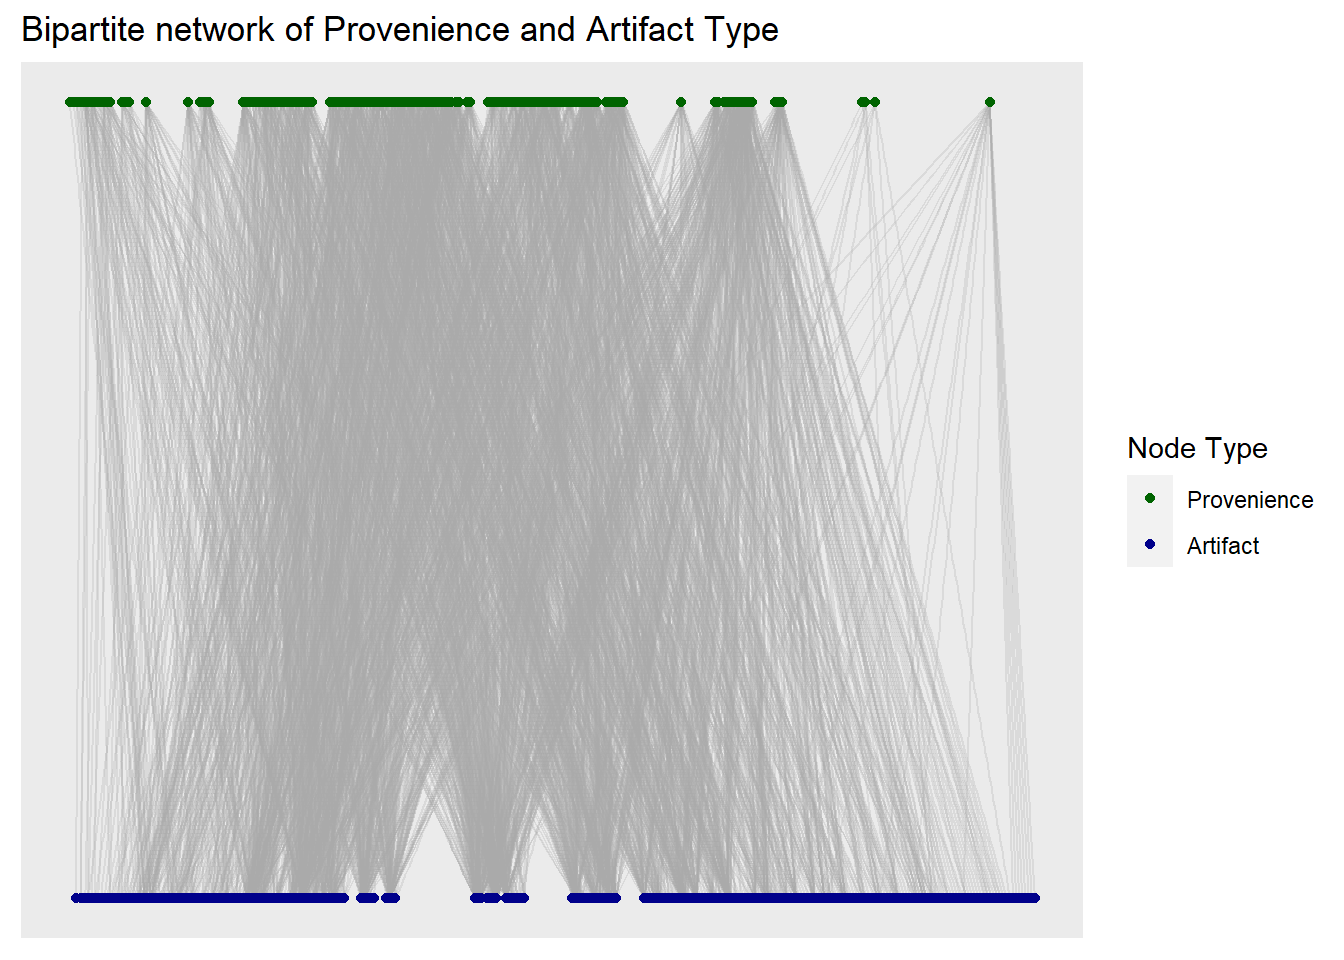
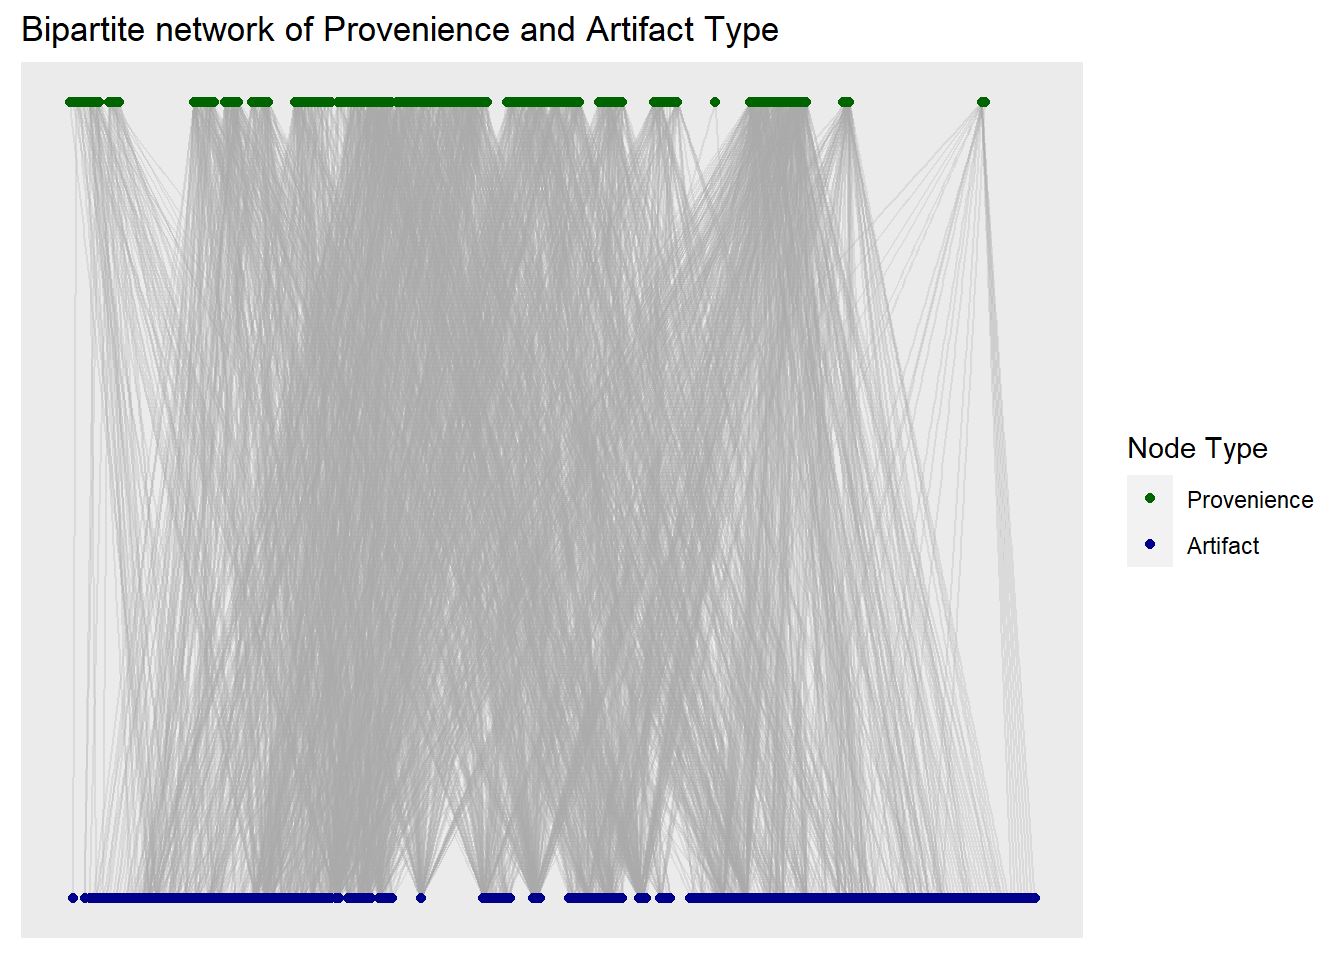
experimenting with thresholds

diff --git a/assemblage_network_doc_3_building.html b/assemblage_network_doc_3_building.html
@@ -7,7 +7,7 @@
 <meta name="viewport" content="width=device-width, initial-scale=1.0, user-scalable=yes">
 
 <meta name="author" content="James Scott Cardinal">
-<meta name="dcterms.date" content="2023-02-09">
+<meta name="dcterms.date" content="2023-04-14">
 
 <title>From similarity to network: Building graphs for community detection</title>
 <style>
@@ -177,7 +177,7 @@ div.csl-indent {
     <div>
     <div class="quarto-title-meta-heading">Published</div>
     <div class="quarto-title-meta-contents">
-      <p class="date">February 9, 2023</p>
+      <p class="date">April 14, 2023</p>
     </div>
   </div>
   
@@ -243,7 +243,7 @@ div.csl-indent {
 </div>
 </div>
 </div>
-<p>For proveniences, it looks like there are quite a lot that have <em>some</em> similarities in their artifact content.</p>
+<p>For proveniences, it looks like there are quite a lot that have at least <em>some</em> similarities in their artifact content. Looking at the density of scores for each methods, it appears that the majority of proveniences have non-zero similarity scores even though there are discernible “peaks” at zero.</p>
 <div class="cell">
 <div class="cell-output-display">
 <div id="fig-sim-artifact" class="quarto-figure quarto-figure-center anchored">
@@ -254,8 +254,20 @@ div.csl-indent {
 </div>
 </div>
 </div>
-<p>In contrast to proveniences, the artifact types show far <em>less</em> similarity in where they co-occur.</p>
-<p>Now what we want to do is look at how to go about selecting our similarity metric, how to find the appropriate thresholds of similarity, and what effects these have on the resulting graph projections. The goal is to find the right metric and threshold that will allow us to detect the underlying structure of the relationships within and between proveniences and artifact types.</p>
+<p>Unlike the proveniences, the co-location of artifacts is obviously much more sparse and the density plot is dominated by the left-hand spike of zero similarities. Looking closely, though, we can notice some apparent “bumps” along the right tails (most obvious for the overlap coefficient) where we seem to have a fair number of higher similarity artifacts. In other words, some artifact types occur together quite often.</p>
+<div class="cell">
+<div class="cell-output-display">
+<div id="fig-sim-artifact-nonzero" class="quarto-figure quarto-figure-center anchored">
+<figure class="figure">
+<p><img src="assemblage_network_doc_3_building_files/figure-html/fig-sim-artifact-nonzero-1.png" class="img-fluid figure-img" alt="Non-zero similarity measures for artifact types." width="672"></p>
+<p></p><figcaption class="figure-caption">Figure&nbsp;4: Non-zero similarity measures for artifact types.</figcaption><p></p>
+</figure>
+</div>
+</div>
+</div>
+<p>Filtering the artifact similarities to only display non-zero values, we an see the distribution of similarities a little better within that right tail. Sørensen–Dice and Jaccard scores still concentrate on the lower end of the scale, while it’s apparent that the overlap coefficient is rating the similarities considerably higher.</p>
+<p>If you remember from the last installment, the overlap coefficient captures subsets and has a more “permissive” approach to scoring similarities. Sørensen–Dice and Jaccard, however, penalize differences in their scoring, which lead to lower overall similarity scores</p>
+<p>Now what we want to do is look at how to go about selecting our similarity metric, how to find appropriate thresholds of similarity, and what effects these have on the resulting graph projections. The goal is to find the right metric and threshold that will allow us to detect the underlying structure of the relationships within and between proveniences and artifact types.</p>
 </section>
 </section>
 <section id="sec-graph-structure-and-scale-free-networks" class="level2">
@@ -266,24 +278,24 @@ div.csl-indent {
 <p>The presence of a scale-free network suggests that there is some latent <em>non</em>-random process at play that is driving differential attachments between those nodes. It may be that there is a different process of growth in the network, which archaeologically would be some different spatial or temporal process of artifact deposition. Alternatively, there may be a clustering process or preferential attachment by which certain nodes are more closely associated than others as in the case of hub nodes. A certain suite of artifacts that are all related to the same activities (i.e., an <em>assemblage</em>) would cluster together, for example.</p>
 <section id="sec-detecting-scale-free-networks" class="level3">
 <h3 class="anchored" data-anchor-id="sec-detecting-scale-free-networks">Detecting scale-free networks</h3>
-<p>If a network is scale-free, then the distribution of node degree will approximate a power-law distribution of the form <span class="math inline">\(P_{\text{deg}}(k) \propto k^{-\gamma}\)</span> where <span class="math inline">\(k\)</span> is node degree and <span class="math inline">\(\gamma\)</span> is some exponent. We will know <span class="math inline">\(k\)</span>, but we would obviously need to find the appropriate value for <span class="math inline">\(\gamma\)</span> from our empirical distribution. To illustrate, lets look at the probability density function for various values of <span class="math inline">\(\gamma\)</span> (<a href="#fig-power-law">Figure&nbsp;4</a>). We have 251 artifact types in our archaeological sample data, so lets look at the ideal power-law distributions if each node could have a maximum of 251 degrees.</p>
+<p>If a network is scale-free, then the distribution of node degree will approximate a power-law distribution of the form <span class="math inline">\(P_{\text{deg}}(k) \propto k^{-\gamma}\)</span> where <span class="math inline">\(k\)</span> is node degree and <span class="math inline">\(\gamma\)</span> is some exponent. We will know <span class="math inline">\(k\)</span>, but we would obviously need to find the appropriate value for <span class="math inline">\(\gamma\)</span> from our empirical distribution. To illustrate, lets look at the probability density function for various values of <span class="math inline">\(\gamma\)</span> (<a href="#fig-power-law">Figure&nbsp;5</a>). We have 251 artifact types in our archaeological sample data, so lets look at the ideal power-law distributions if each node could have a maximum of 251 degrees.</p>
 <div class="cell">
 <div class="cell-output-display">
 <div id="fig-power-law" class="quarto-figure quarto-figure-center anchored">
 <figure class="figure">
 <p><img src="assemblage_network_doc_3_building_files/figure-html/fig-power-law-1.png" class="img-fluid figure-img" alt="Power-law distribution for different values of gamma." width="672"></p>
-<p></p><figcaption class="figure-caption">Figure&nbsp;4: Power-law distribution for different values of gamma.</figcaption><p></p>
+<p></p><figcaption class="figure-caption">Figure&nbsp;5: Power-law distribution for different values of gamma.</figcaption><p></p>
 </figure>
 </div>
 </div>
 </div>
-<p>Pretty easy to see that if our artifact type graph were scale free, the vast majority of the nodes would have a <em>very</em> small degree. Not so easy to see how much that probability is affected by <span class="math inline">\(\gamma\)</span>, though. It’s a lot easier to see the effect of <span class="math inline">\(\gamma\)</span> if we take the <span class="math inline">\(\log\)</span> of <span class="math inline">\(P_{\text{deg}}(k)\)</span> (<a href="#fig-power-law-log">Figure&nbsp;5</a>).</p>
+<p>Pretty easy to see that if our artifact type graph were scale free, the vast majority of the nodes would have a <em>very</em> small degree. Not so easy to see how much that probability is affected by <span class="math inline">\(\gamma\)</span>, though. It’s a lot easier to see the effect of <span class="math inline">\(\gamma\)</span> if we take the <span class="math inline">\(\log\)</span> of <span class="math inline">\(P_{\text{deg}}(k)\)</span> (<a href="#fig-power-law-log">Figure&nbsp;6</a>).</p>
 <div class="cell">
 <div class="cell-output-display">
 <div id="fig-power-law-log" class="quarto-figure quarto-figure-center anchored">
 <figure class="figure">
 <p><img src="assemblage_network_doc_3_building_files/figure-html/fig-power-law-log-1.png" class="img-fluid figure-img" alt="Log-scale power-law distribution for different values of gamma." width="672"></p>
-<p></p><figcaption class="figure-caption">Figure&nbsp;5: Log-scale power-law distribution for different values of gamma.</figcaption><p></p>
+<p></p><figcaption class="figure-caption">Figure&nbsp;6: Log-scale power-law distribution for different values of gamma.</figcaption><p></p>
 </figure>
 </div>
 </div>
@@ -301,7 +313,7 @@ div.csl-indent {
 <section id="sec-from-similarity-to-adjacency" class="level2">
 <h2 class="anchored" data-anchor-id="sec-from-similarity-to-adjacency">From similarity to adjacency</h2>
 <p>We could simply use our raw similarity scores to build our networks, but we would still have very dense and noisy graphs. Instead, we want to find a method that boosts the <em>signal</em> of our graph structure, while suppressing the <em>noise</em> from spurious associations. To do that, we need to filter our similarity scores to form a graph adjacency matrix containing (as much as possible) only the most significant associations between entities. There are essentially two ways we can go about this.</p>
-<p>The simplest is to just set a hard cutoff threshold – e.g., a specific value or quantile – and build an un-weighted or binary adjacency matrix. If we select the right threshold, this can be very effective and results in a more sparse graph. The downside is that it risks discarding legitimate connections along with the noise, and tends to leave isolated nodes (i.e., nodes that aren’t connected to any others).</p>
+<p>The simplest is to just set a hard cutoff threshold – e.g., a specific value or quantile – and build an un-weighted or binary adjacency matrix. If we select the right threshold, this can be very effective and results in a more sparse graph. The downside is that it risks discarding legitimate (albeit lower strength) connections along with the noise, and tends to leave isolated nodes (i.e., nodes that aren’t connected to any others).</p>
 <p>Another approach is to use a function to calculate a <em>soft</em> threshold value, along the lines of an activation function. This results in a weighted graph in which smaller similarity values are pushed closer towards zero, while very high similarity values would stay closer to one. The advantage is that there is less risk of suppressing significant connections. The downside is that the noise is still in there, albeit substantially dampened, and doesn’t decrease the graph’s overall density. Weighted graphs are also just a bit more complicated to parse for community detection. Some methods consider edge weight as strength of connection, while others require the edge weights to be a measure of distance between nodes.</p>
 <p>Thankfully, the two are not mutually exclusive! A hybrid approach would be to boost the similarity signal by employing a soft threshold function, and <em>then</em> finding an appropriate hard threshold. This is, in effect, what ultimately happens when you apply a clustering algorithm to a distance matrix. Whether it’s selecting the number of clusters or setting a cutoff distance to a dendrogram, you’re essentially deciding membership by picking a hard threshold to the measure being evaluated.</p>
 <p>Graph community detection is quite closely related to non-graph clustering, particularly hierarchical clustering. Setting a threshold for building the adjacency matrix determines the resulting structure of the graph.</p>
@@ -327,9 +339,9 @@ A_{i,j} = f(S_{i,j}, \tau) \equiv
 <h3 class="anchored" data-anchor-id="sec-soft-thresholds">Soft thresholds</h3>
 <p>Soft thresholds consist of a transformation of the raw similarity score by passing it through a function that boosts stronger similarities and suppresses weaker ones. Those familiar with activation functions in deep learning will already be accustomed to the variety of approaches available – e.g., sigmoid function, tangent hyperbolic or “tanh” function, etc. Soft thresholds work the same way, transforming the input values into a monotonically increasing output value.</p>
 <p>Soft thresholds result in weighted graphs, therefore they do not reduce the graph’s density or alter the degree distribution, unless a subsequent (hard) threshold is applied as well. In a weighted network, though, the density is less of an issue, since all metrics become proportional to the associated edge weights. It does, however, become rather more computationally intensive. The advantage of that trade-off is that more of the information about the relationships is retained in the graph’s structure.</p>
-<p>Since our similarity scores are already in the range <span class="math inline">\([0,1]\)</span>, we don’t really need quite the same sort transformation as we would if we needed to take any real number as an input. We just need to “bend” our linear input range to suppress some range of the smaller values. Luckily, there is a very simple way to do that by using an exponential function. We’ll define a power adjacency<a href="#fn4" class="footnote-ref" id="fnref4" role="doc-noteref"><sup>4</sup></a> function:</p>
+<p>Since our similarity scores are already in the range <span class="math inline">\([0,1]\)</span>, we don’t really need quite the same sort transformation as we would if we needed to take any real number as an input. We just need to “bend” our linear input range to minimize some portion of the smaller values. Luckily, there is a very simple way to do that by using an exponential function. We’ll define a power adjacency<a href="#fn4" class="footnote-ref" id="fnref4" role="doc-noteref"><sup>4</sup></a> function:</p>
 <p><span id="eq-power-adj"><span class="math display">\[
-Power(s_{i,j}) = |s_{i,j}|^{\beta}
+Power(S_{i,j}) = |S_{i,j}|^{\beta}
 \tag{2}\]</span></span></p>
 <p>This is simply raising the absolute value of our raw input value to some power <span class="math inline">\(\beta\)</span>. Our similarity scores are all <span class="math inline">\([0,1]\)</span> so the absolute value is irrelevant in this case. For other use cases, it would be necessary.<a href="#fn5" class="footnote-ref" id="fnref5" role="doc-noteref"><sup>5</sup></a></p>
 <div class="cell">
@@ -337,13 +349,13 @@ Power(s_{i,j}) = |s_{i,j}|^{\beta}
 <span id="cb2-2"><a href="#cb2-2" aria-hidden="true" tabindex="-1"></a>  <span class="fu">abs</span>(x) <span class="sc">^</span> beta</span>
 <span id="cb2-3"><a href="#cb2-3" aria-hidden="true" tabindex="-1"></a>}</span></code><button title="Copy to Clipboard" class="code-copy-button"><i class="bi"></i></button></pre></div>
 </div>
-<p>Increasing <span class="math inline">\(\beta\)</span> can be seen to push the smaller values towards zero, which increases the minimum value at which the adjacency score exceeds <span class="math inline">\(0.5\)</span> (thus, it’s a <em>soft</em> threshold). At <span class="math inline">\(\beta=2\)</span>, only similarity values of <span class="math inline">\(s_{i,j} \geq 0.71\)</span> would break the <span class="math inline">\(0.5\)</span> adjacency threshold and the weights of all lower values penalized. At <span class="math inline">\(\beta=3\)</span> it would take <span class="math inline">\(s_{i,j} \geq 0.79\)</span> and so on.</p>
+<p>Increasing <span class="math inline">\(\beta\)</span> can be seen to push the smaller values towards zero, which increases the minimum value at which the adjacency score exceeds <span class="math inline">\(0.5\)</span> (thus, it’s a <em>soft</em> threshold). For example, at <span class="math inline">\(\beta=2\)</span> only similarity values of <span class="math inline">\(S_{i,j} \geq 0.71\)</span> would break the <span class="math inline">\(0.5\)</span> adjacency threshold and the weights of all lower values penalized. At <span class="math inline">\(\beta=3\)</span> it would take <span class="math inline">\(S_{i,j} \geq 0.79\)</span> and so on.</p>
 <div class="cell">
 <div class="cell-output-display">
 <div id="fig-power-adjacency" class="quarto-figure quarto-figure-center anchored">
 <figure class="figure">
 <p><img src="assemblage_network_doc_3_building_files/figure-html/fig-power-adjacency-1.png" class="img-fluid figure-img" alt="Power adjacency distribution for different values of beta." width="672"></p>
-<p></p><figcaption class="figure-caption">Figure&nbsp;6: Power adjacency distribution for different values of beta.</figcaption><p></p>
+<p></p><figcaption class="figure-caption">Figure&nbsp;7: Power adjacency distribution for different values of beta.</figcaption><p></p>
 </figure>
 </div>
 </div>
@@ -352,7 +364,11 @@ Power(s_{i,j}) = |s_{i,j}|^{\beta}
 </section>
 <section id="sec-choosing-threshold-type-and-parameters" class="level2">
 <h2 class="anchored" data-anchor-id="sec-choosing-threshold-type-and-parameters">Choosing threshold type and parameters</h2>
-<p>…</p>
+<p>So, now that we’ve explored some similarity and adjacency methods, the question remains – how do we choose between them? We’re looking for non-random structure within our sample data, and we know that the non-random distribution of connections in our network <em>should</em> approximate a scale-free network. Therefore, we want to pick the similarity measure and adjacency threshold that result in a graph that best approximates such a network.</p>
+<p>How do we do that?</p>
+<p>Well, one proven method<a href="#fn6" class="footnote-ref" id="fnref6" role="doc-noteref"><sup>6</sup></a> is that we can test the fit of a linear regression between the the observed distribution of network connectivity and an ideal power law probability distribution. The higher the <span class="math inline">\(R^2\)</span> of the model fit, the closer the observed data is to a scale-free topology.</p>
+<p>It’s important to note that the meaning of “connectivity” is different for weighted (soft) and un-weighted (hard) adjacency. For un-weighted graphs, connectivity is simply the degree of each node. If the edges are weighted, though, connectivity is the sum of edge weights (or “strength”) connected to each node.</p>
+<p>Our next step, then, is to evaluate each of our similarity matrices to see which one most closely fits to a scale-free network. Before we do that, though, let’s take a look at what the connectivity look like when just using the similarity scores as the network adjacency.</p>
 
 
 
@@ -377,6 +393,7 @@ Zhang, Bin, and Steve Horvath. 2005. <span>“A General Framework for Weighted G
 <li id="fn3"><p>Adapted from <span class="citation" data-cites="Zhang2005">Zhang and Horvath (<a href="#ref-Zhang2005" role="doc-biblioref">2005</a>)</span><a href="#fnref3" class="footnote-back" role="doc-backlink">↩</a></p></li>
 <li id="fn4"><p>Again, we’re following after <span class="citation" data-cites="Zhang2005">Zhang and Horvath (<a href="#ref-Zhang2005" role="doc-biblioref">2005</a>)</span>.<a href="#fnref4" class="footnote-back" role="doc-backlink">↩</a></p></li>
 <li id="fn5"><p>For example, if we were including multiplicities of events (i.e., how <em>many</em> of each artifact type was found at each location), then different similarity measures or correlations would be appropriate that might produced signed values.<a href="#fnref5" class="footnote-back" role="doc-backlink">↩</a></p></li>
+<li id="fn6"><p>See <span class="citation" data-cites="Zhang2005">Zhang and Horvath (<a href="#ref-Zhang2005" role="doc-biblioref">2005</a>)</span><a href="#fnref6" class="footnote-back" role="doc-backlink">↩</a></p></li>
 </ol>
 </section></div></main> <!-- /main -->
 <script id="quarto-html-after-body" type="application/javascript">
